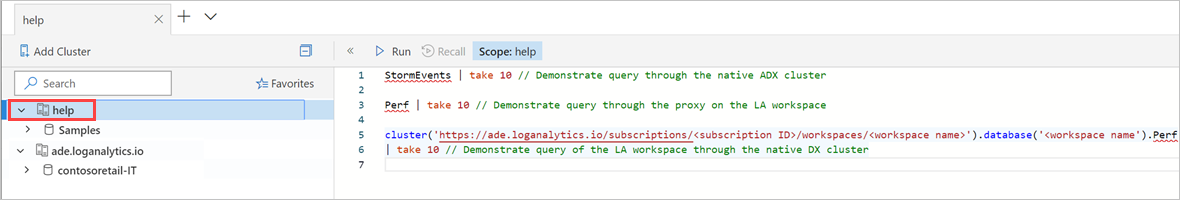
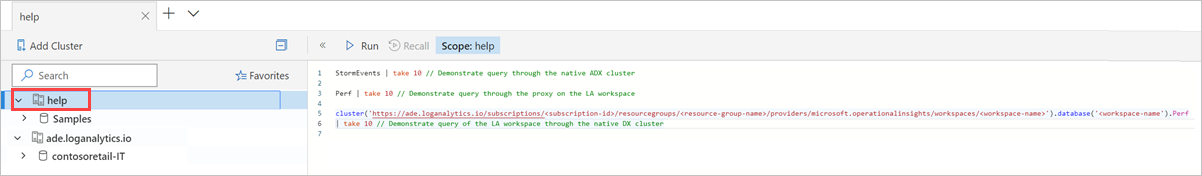
Updates in syntax and png files

diff --git a/data-explorer/adx-proxy.md b/data-explorer/adx-proxy.md
@@ -7,7 +7,7 @@ ms.author: orspodek
 ms.reviewer: rkarlin
 ms.service: data-explorer
 ms.topic: conceptual
-ms.date: 06/05/2019
+ms.date: 07/09/2019
 
 #Customer intent: I want to use create an Azure Data Explorer proxy for cross product queries with Log Analytics and Application Insights 
 ---
@@ -35,7 +35,8 @@ The Azure Data Explorer proxy flow is depicted below:
 
 1. In the **Add Cluster** window:
 
-    * Add the URL to the LA or AI cluster. For example: `https://ade.loganalytics.io/subscriptions/<Subscription ID>/workspaces/<Workspace name>`
+    * Add the URL to the LA or AI cluster. For example: `https://ade.loganalytics.io/subscriptions/<subscription-id>/resourcegroups/<resource-group-name>/providers/microsoft.operationalinsights/workspaces/<workspace-name>`
+
     * Select **Add**.
 
     ![Add cluster](media/adx-proxy/add-cluster.png)
@@ -74,29 +75,34 @@ Perf | take 10 // Demonstrate query through the proxy on the LA workspace
 
 ![Query LA workspace](media/adx-proxy/query-la.png)
 
-### Query against your LA or AI cluster from the ADX proxy  
+### Query your LA or AI cluster from the ADX proxy  
 
-When you run queries on your LA or AI cluster from the proxy, verify your ADX native cluster is selected in the left pane
+When you run queries on your LA or AI cluster from the proxy, verify your ADX native cluster is selected in the left pane. The following example demonstrates a query of the LA workspace using the native ADX cluster
 
 ```kusto
-cluster(`https://ade.loganalytics.io/subscriptions/<subscription ID>/workspaces/<workspace name>`) .database(`<workspace name).Perf
-| take 10 // Demonstrate query of the LA workspace through the native DX cluster
+cluster('https://ade.loganalytics.io/subscriptions/<subscription-id>/resourcegroups/<resource-group-name>/providers/microsoft.operationalinsights/workspaces/<workspace-name>').database('<workspace-name').Perf
+| take 10 
 ```
 
 ![Query from Azure Data Explorer proxy](media/adx-proxy/query-adx-proxy.png)
 
 ### Cross query of LA or AI cluster and the ADX cluster from the ADX proxy 
 
-When you run cross cluster queries from the proxy, verify your ADX native cluster is selected in the left pane
+When you run cross cluster queries from the proxy, verify your ADX native cluster is selected in the left pane. The following examples demonstrate combining ADX cluster tables (using `union`) with LA workspace.
 
 ```kusto
-unionStormEvents, cluster(`https://ade.loganalytics.io/subscriptions/<subscription ID>/workspaces/<workspace name>`).database(<workspace name>).Perf
-| take 10 // union tables from both the ADX cluster and the LA workspace
+union StormEvents, cluster('https://ade.loganalytics.io/subscriptions/<subscription-id>/resourcegroups/<resource-group-name>/providers/microsoft.operationalinsights/workspaces/<workspace-name>').database('<workspace-name>').Perf
+| take 10 
+```
+
+```kusto
+let CL1 = 'https://ade.loganalytics.io/subscriptions/<subscription-id>/resourcegroups/<resource-group-name>/providers/microsoft.operationalinsights/workspaces/<workspace-name>';
+union <ADX table>, cluster(CL1).database(<workspace-name>).<table name>
 ```
 
 ![Cross query from the Azure Data Explorer proxy](media/adx-proxy/cross-query-adx-proxy.png)
 
-Using the [`join` operator](/azure/kusto/query/joinoperator) may require a hint to run it on an Azure Data Explorer native cluster (and not on the proxy). 
+Using the [`join` operator](/azure/kusto/query/joinoperator), instead of union, may require a hint to run it on an Azure Data Explorer native cluster (and not on the proxy). 
 
 ## Additional syntax examples
 
@@ -104,17 +110,16 @@ The following syntax options are available when calling the Application Insights
 
 |Syntax Description  |Application Insights  |Log Analytics  |
 |----------------|---------|---------|
-| Database within a cluster that contains all apps in this subscription    |   (`https://ade.applicationinsights.io/subscriptions/<subscription-id>`).database(`<database-name>`)      |    (`https://ade.loganalytics.io/subscriptions/<subscription-id>`).database(`<database-name>`)     |
-|Cluster that contains all apps/workspaces in this subscription    |     (`https://ade.applicationinsights.io/subscriptions/<subscription-id>`)    |    (`https://ade.loganalytics.io/subscriptions/<subscription-id>`)     |
-|Cluster that contains all apps/workspaces in the subscription and are members of this resource group    |   (`https://ade.applicationinsights.io/subscriptions/<subscription-id>/resourcegroups/<resource-group-name>`)      |    (`https://ade.loganalytics.io/subscriptions/<subscription-id>/resourcegroups/<resource-group-name>`)     |
-|Cluster that contains only this app/workspace (recommended)    |     (`https://ade.applicationinsights.io/subscriptions/<subscription-id>/apps/<ai-app-name>`) or  (`https://ade.applicationinsights.io/subscriptions/<subscription-id>/providers/microsoft.insights/components/<ai-app-name>`)  | (`https://ade.loganalytics.io/subscriptions/<subscription-id>/workspaces/<ai-app-name>`)  or   (`https://ade.loganalytics.io/subscriptions/<subscription-id>/providers/microsoft.operationalinsights/workspaces/<ai-app-name>`)   |
-|Cluster that contains only this resource group      |    (`https://ade.applicationinsights.io/subscriptions/<subscription-id>/resourcegroups/<resource-group-name>/apps/<ai-app-name>`) or  (`https://ade.applicationinsights.io/subscriptions/<subscription-id>/resourcegroups/<resource-group-name>/providers/microsoft.insights/components/<ai-app-name>`)    |  (`https://ade.loganalytics.io/subscriptions/<subscription-id>/resourcegroups/<resource-group-name>/workspaces/<ai-app-name>`) or  (`https://ade.loganalytics.io/subscriptions/<subscription-id>/resourcegroups/<resource-group-name>/providers/microsoft.operationalinsights/workspaces/<ai-app-name>`)    |
+| Database within a cluster that contains only the defined resource in this subscription (**recommended for cross cluster queries**) |   cluster(`https://ade.applicationinsights.io/subscriptions/<subscription-id>/resourcegroups/<resource-group-name>/providers/microsoft.insights/components/<ai-app-name>').database('<ai-app-name>`) | cluster(`https://ade.loganalytics.io/subscriptions/<subscription-id>/resourcegroups/<resource-group-name>/providers/microsoft.operationalinsights/workspaces/<workspace-name>').database('<workspace-name>`)     |
+| Cluster that contains all apps/workspaces in this subscription    |     cluster(`https://ade.applicationinsights.io/subscriptions/<subscription-id>`)    |    cluster(`https://ade.loganalytics.io/subscriptions/<subscription-id>`)     |
+|Cluster that contains all apps/workspaces in the subscription and are members of this resource group    |   cluster(`https://ade.applicationinsights.io/subscriptions/<subscription-id>/resourcegroups/<resource-group-name>`)      |    cluster(`https://ade.loganalytics.io/subscriptions/<subscription-id>/resourcegroups/<resource-group-name>`)      |
+|Cluster that contains only the defined resource in this subscription      |    cluster(`https://ade.applicationinsights.io/subscriptions/<subscription-id>/resourcegroups/<resource-group-name>/providers/microsoft.insights/components/<ai-app-name>`)    |  cluster(`https://ade.loganalytics.io/subscriptions/<subscription-id>/resourcegroups/<resource-group-name>/providers/microsoft.operationalinsights/workspaces/<workspace-name>`)     |
 
 ### Application Insights app and Log Analytics workspace names
 
 * If names contain special characters, they are replaced by URL encoding in the proxy cluster name. 
-* If names include characters that don't meet [KQL identifier name rules](/azure/kusto/query/schema-entities/entity-names), the are replaced by the dash character **-**.
+* If names include characters that don't meet [KQL identifier name rules](/azure/kusto/query/schema-entities/entity-names), the are replaced by the dash **-** character.
 
 ## Next steps
 
-* [Write queries](write-queries.md)
+[Write queries](write-queries.md)
